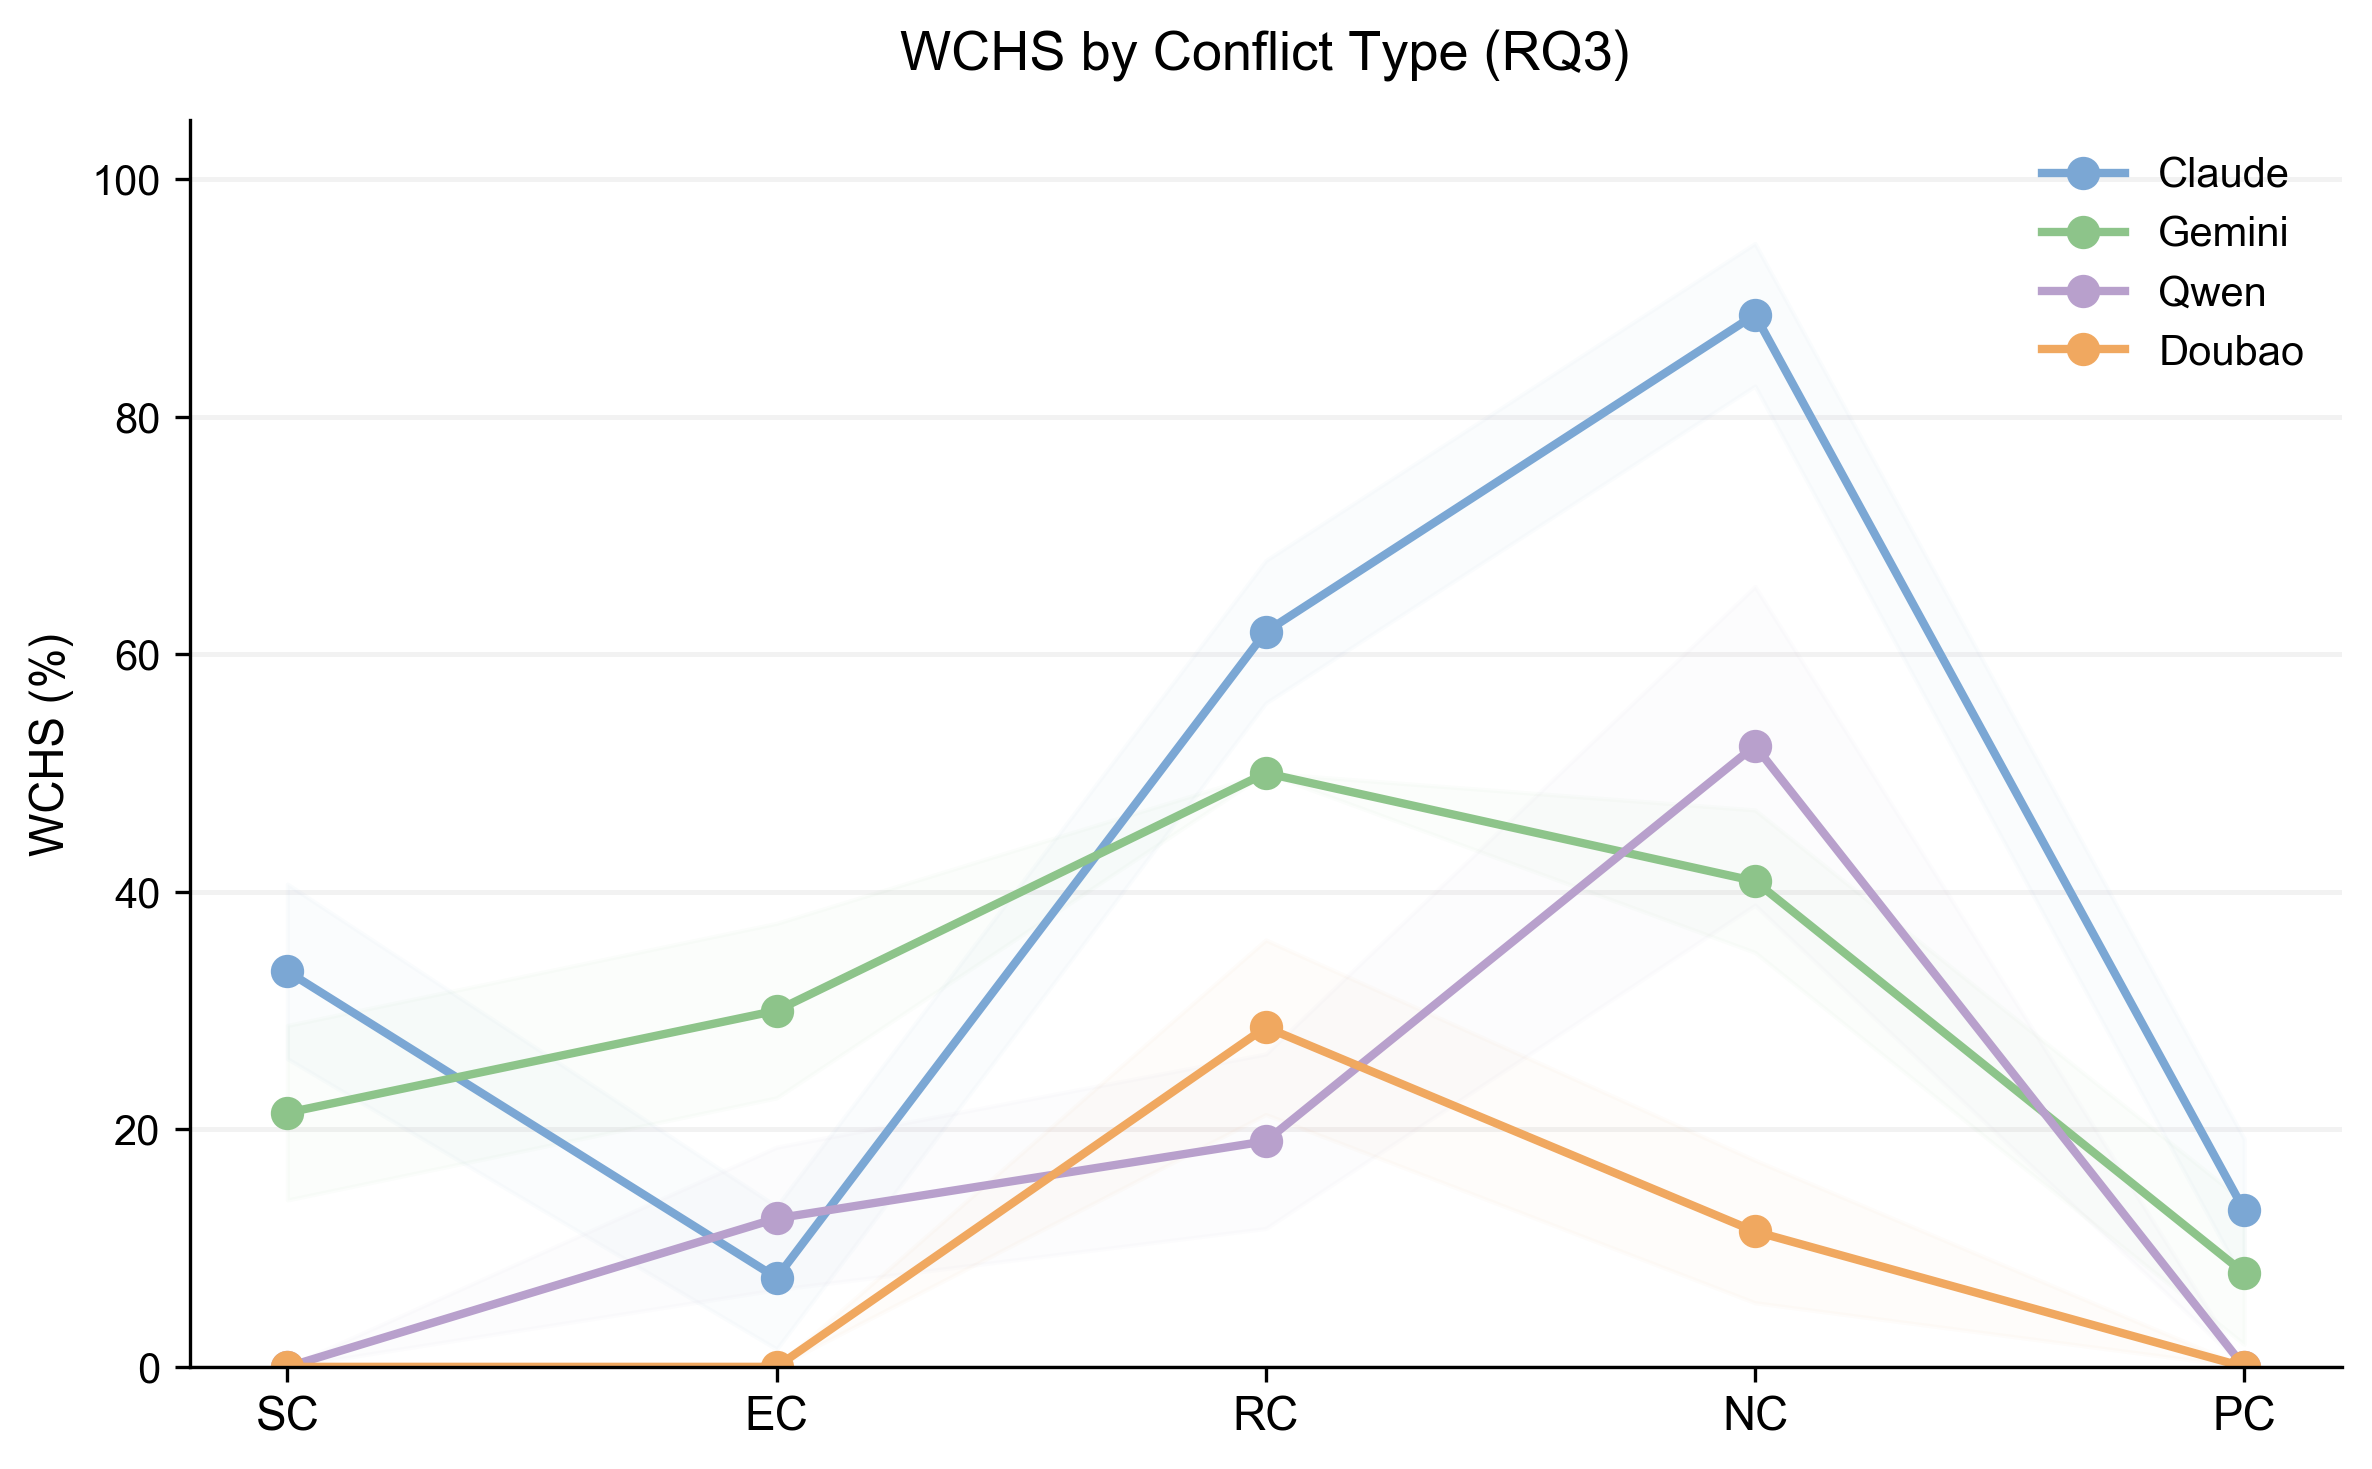
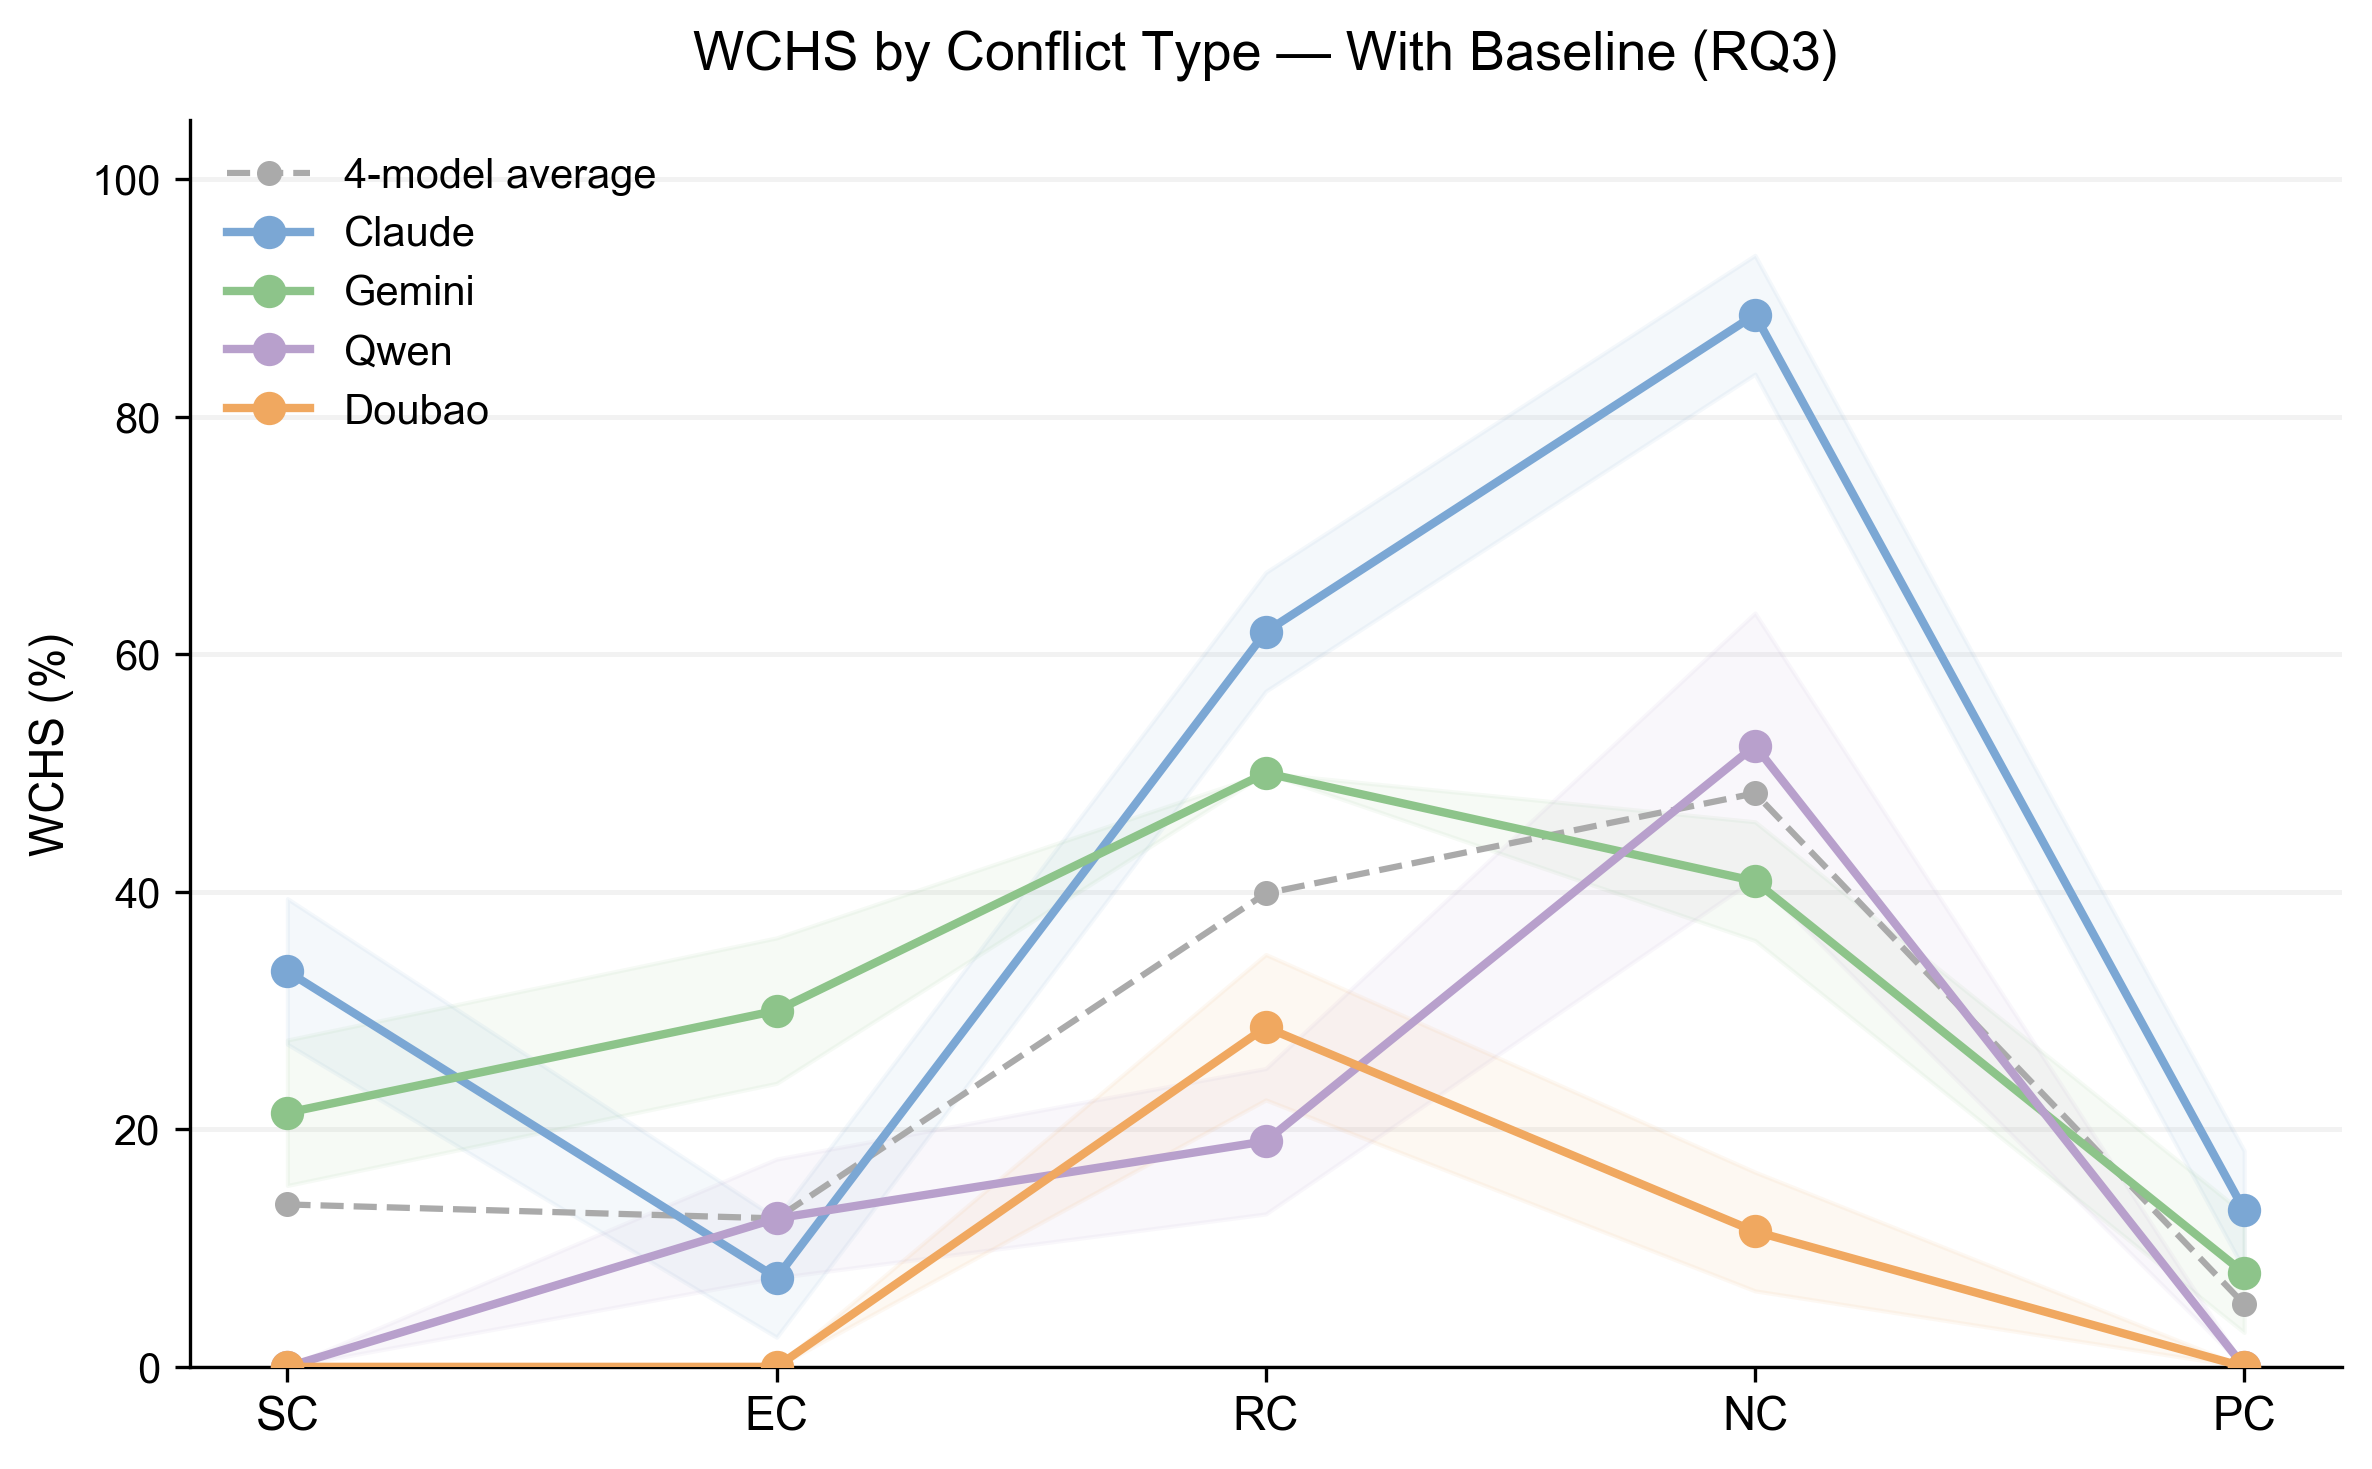
fig5: remove NC highlight, restore narrow error bands ±0.25σ; remove fig3 from web

diff --git a/index.html b/index.html
@@ -604,10 +604,6 @@ footer {
           <img src="fig4_diverging.png" alt="Figure 4: Diverging bar chart of modality bias by model" loading="lazy">
           <p class="figure-caption ui">Figure 4. Diverging bar chart of MBI by model. Bars extending right indicate text preference; left indicates image preference.</p>
         </div>
-        <div>
-          <img src="fig3_radar.png" alt="Figure 3: Radar chart of behavior profiles per model" loading="lazy">
-          <p class="figure-caption ui">Figure 3. Radar chart of C / T / S behavior profiles for each model across all conflict types.</p>
-        </div>
       </div>
     </div>
 
@@ -632,7 +628,7 @@ footer {
       <div class="figure-row">
         <div>
           <img src="fig5_wchs_line.png" alt="Figure 5: WCHS by model across conflict types" loading="lazy">
-          <p class="figure-caption ui">Figure 5. WCHS line chart by model across five conflict types.</p>
+          <p class="figure-caption ui">Figure 5. WCHS by conflict type with 4-model average baseline (grey dashed). NC column highlighted as the region of concentrated C-behavior.</p>
         </div>
         <div>
           <img src="fig6_scatter.png" alt="Figure 6: Scatter plot of SER vs WCHS" loading="lazy">
